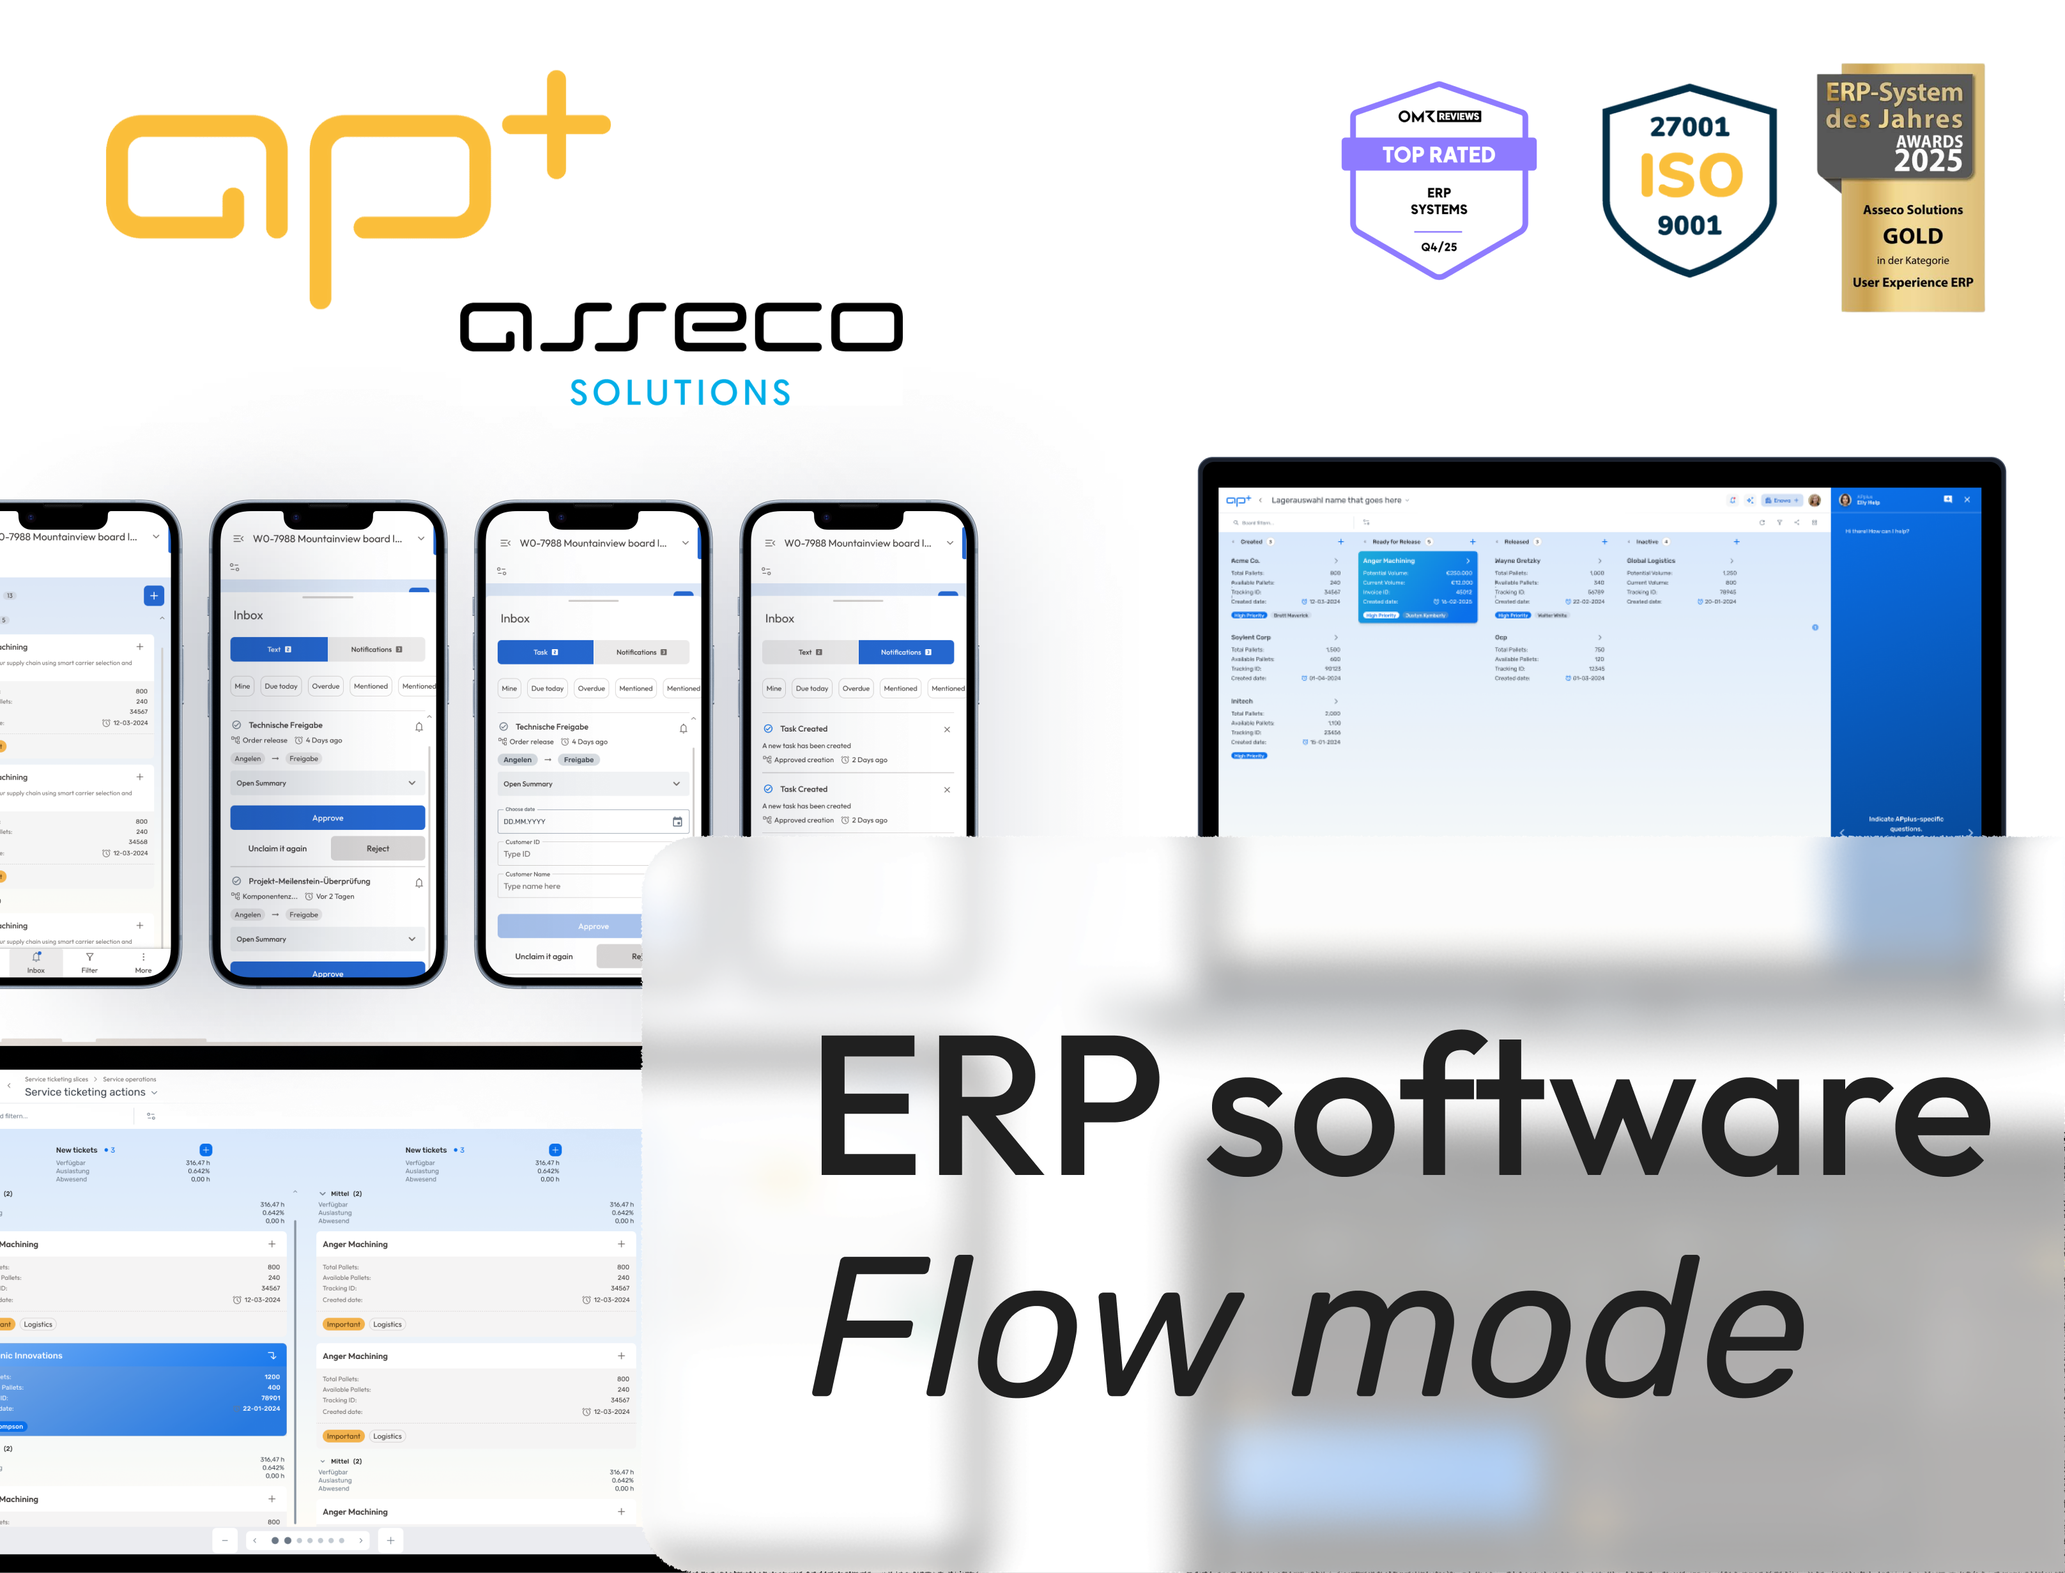
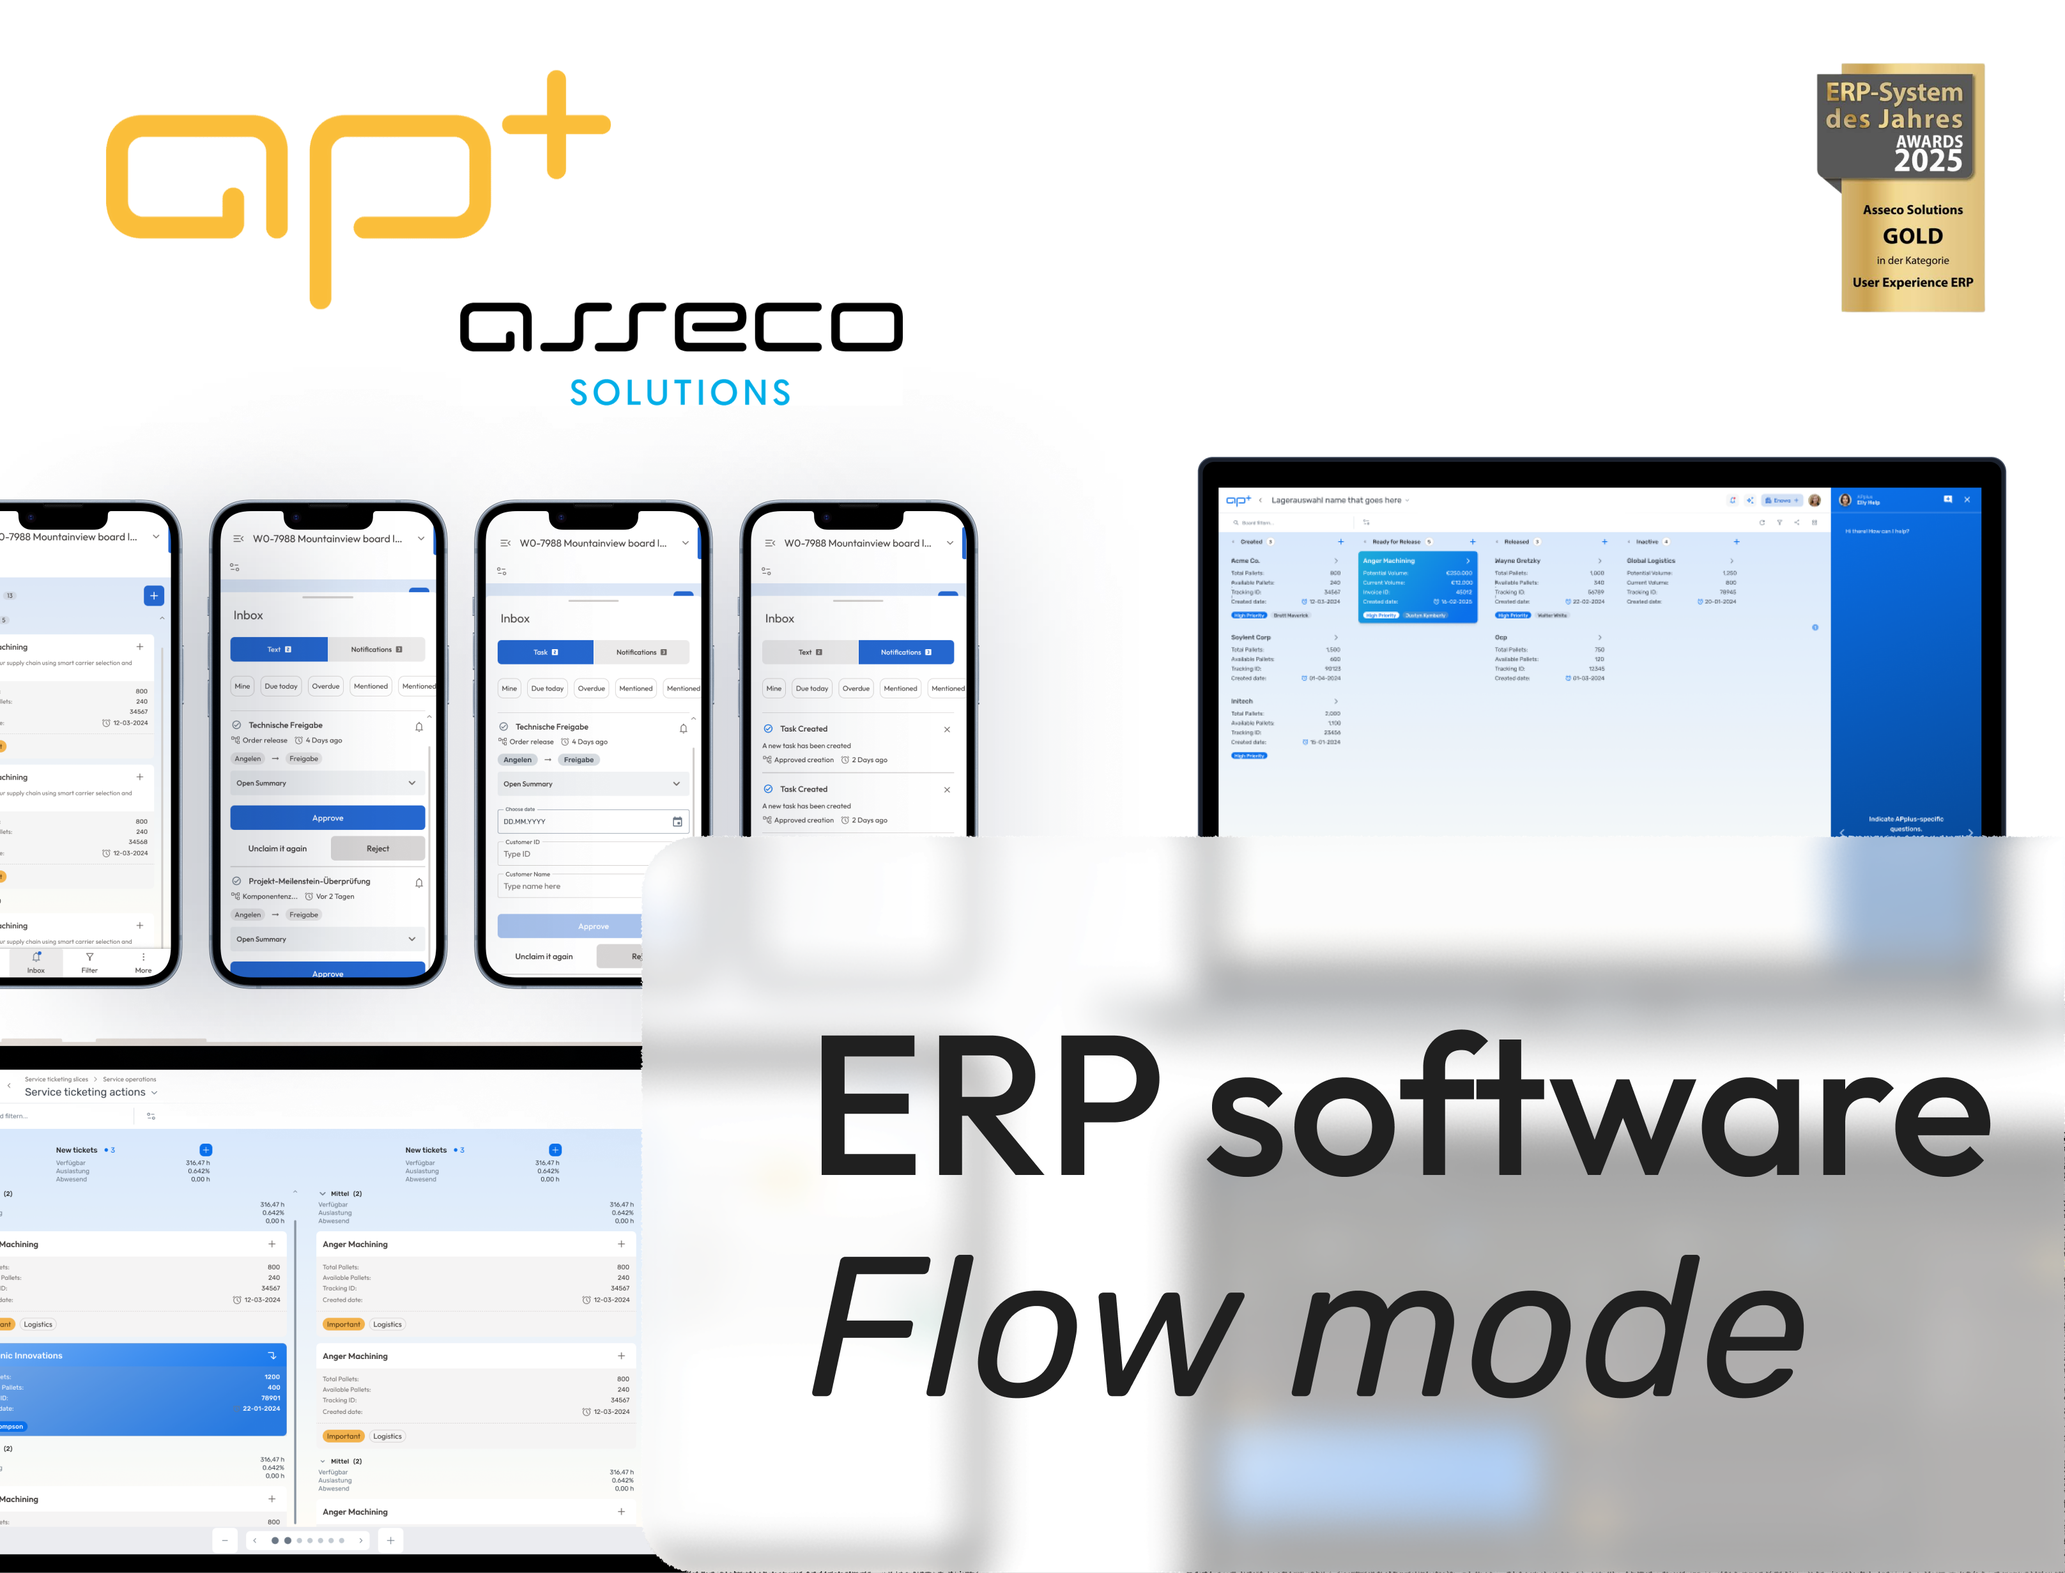
feat(work): Flow mode - case study sredniej glebokosci, tylko moja czesc pracy
Flow mode istnieje od APplus 8 (pazdziernik 2023); strona opisuje tylko
nowa nawigacje (z warsztatu Futures Thinking), uklad Page details,
migracje na FOX v2.5, nowe komponenty i wspolprace przy wdrozeniu, QA
i testach uzytecznosci. Bez niepotwierdzonych liczb.

Plansze 05, 06, 07 pociete na pojedyncze ekrany w screens/*.webp; lewy
laptop z 07 ("Document Management System") pominiety. Moodboard (03)
i przeglad flow w Figmie (04) usuniete. Z okladki usuniete plakietki
OMR i ISO. Linki w tekscie dostaja podkreslenie.

Changed region(s): [[0.625, 0.0309, 0.875, 0.1852]]

diff --git a/site/src/content/flow.ts b/site/src/content/flow.ts
@@ -1,104 +1,230 @@
 import type { CaseStudy } from "./types";
 
-/** Images from the Behance gallery, in gallery order. */
+/**
+ * Flow mode shipped in APplus 8, in October 2023, before I joined. This page
+ * describes only the part of it that is mine, as confirmed by me: the new
+ * navigation (from the Futures Thinking workshop), the Page details layout,
+ * the migration to FOX v2.5, the components that migration and the new
+ * navigation needed, and the work alongside implementation, QA and usability
+ * testing. There are no measured results, so the page states none.
+ *
+ * The screens are cut one by one from the Behance boards into screens/.
+ * Dropped on purpose: the moodboard (mostly competitors' products), the
+ * Figma overview of the mobile flows (unreadable at any size on a page), and
+ * the left laptop of the desktop board, whose header reads "Document
+ * Management System" and so is not Flow mode.
+ *
+ * Links to other walls are relative ("futures-thinking"), so they resolve
+ * under whatever base the site is deployed at.
+ */
+const S = "/work/applus-flow/screens";
+
 export const flow: CaseStudy = {
   slug: "applus-flow",
   title: "APplus Flow mode",
-  what: "A logistics module redesigned around status and ownership, desktop to mobile",
+  what: "A new navigation, page layout and FOX v2.5 components for an existing part of APplus ERP",
   lead:
-    "Flow mode is the logistics module inside APplus ERP. Shipments had been managed across several disconnected screens, so nobody could see one trusted status view.",
+    "Flow mode is the board view of APplus ERP: work items sit in columns by status and move from one column to the next. It shipped in APplus 8 in October 2023, before I joined. My part came later: a new navigation, a new Page details layout, the move to FOX v2.5 and the components that move needed.",
   status: { state: "live" },
   group: "product",
   cover: {
     kicker: "PRODUCT DESIGN · ENTERPRISE SOFTWARE",
     headline: ["Flow mode"],
-    subline: "logistics for APplus ERP",
-    stamp: "DESKTOP · TABLET · MOBILE · SHIPPED NATIVE",
+    subline: "navigation and page layout for APplus ERP",
+    stamp: "NAVIGATION · PAGE DETAILS · FOX v2.5 · DESKTOP TO MOBILE",
     credit: "Lead Product Designer · Asseco Solutions · 2026",
     shot: { src: "/work/applus-flow/00-cover.png" },
   },
   meta: [
     { label: "Role", value: "Lead Product Designer" },
     { label: "Company", value: "Asseco Solutions" },
-    { label: "Product", value: "APplus ERP — Flow mode, logistics" },
-    { label: "Platforms", value: "Desktop, tablet, mobile — shipped native" },
-    { label: "Recognition", value: "Contributed to ERP System of the Year 2025, UX category" },
+    { label: "Product", value: "APplus ERP — Flow mode, in the product since APplus 8 (October 2023)" },
+    {
+      label: "Design system",
+      value: "FOX, which I own; Flow mode's screens migrated to v2.5",
+      href: "https://design-system-v1.assecosolutions.com/?path=/docs/intro--docs",
+    },
+    { label: "Platforms", value: "Desktop, tablet, mobile" },
   ],
   chapters: [
     {
-      id: "challenge",
+      id: "in-short",
+      n: "00",
+      heading: "In short",
+      blocks: [
+        {
+          kind: "spec",
+          rows: [
+            {
+              key: "Problem",
+              value:
+                "Flow mode already worked, but it needed a navigation model, and the team could not agree whether people should enter through tasks or through modules.",
+            },
+            {
+              key: "My part",
+              value:
+                "The new navigation, the Page details layout, the migration of Flow mode's screens to FOX v2.5, and the new components that change needed. During the build I worked with the developers, helped with QA and ran usability tests with users.",
+            },
+            {
+              key: "Decision 1",
+              value:
+                "The header always says where you are: the path to the board, the board's name as a switcher, and the tenant you are working in.",
+            },
+            {
+              key: "Decision 2",
+              value:
+                "An item's details open beside the board, so the column it came from stays in view.",
+            },
+            {
+              key: "Decision 3",
+              value:
+                "Where the new navigation needed a pattern FOX did not have, I designed the component and added it to the system.",
+            },
+            {
+              key: "Evidence",
+              value:
+                "Usability tests with users during implementation. There are no measured before-and-after figures.",
+            },
+            { key: "Shipped", value: "Flow mode is live in APplus." },
+          ],
+        },
+      ],
+    },
+    {
+      id: "what-it-is",
       n: "01",
-      heading: "The challenge",
-      maxim:
-        "Several people, sometimes in different companies and different time zones, working on the same object. Status, ownership and the next action have to be obvious.",
+      heading: "What it is",
       blocks: [
         {
           kind: "passage",
           html:
-            "<p>Shipments were managed across multiple disconnected screens, which meant there was no single trusted status view — and no way to tell, at a glance, whose move it was next.</p>",
+            "<p>Flow mode is a way of working in APplus ERP built around boards. Each board is a set of columns by status, such as Created, Ready for release, Released and Inactive, and each card is one item with its key figures and tags. It has been part of APplus since version 8, released in October 2023. I did not create it.</p><p>What I changed is how people move around it and how an item is shown once they open it. I designed the new navigation and the new Page details layout, moved Flow mode's screens to version 2.5 of FOX, the design system I own, and designed the components that were missing for the new navigation.</p>",
+        },
+        {
+          kind: "shot",
+          width: "column",
+          src: `${S}/desktop-elly.webp`,
+          caption:
+            "A Flow mode board on desktop, with columns by status and the Elly help panel open on the right.",
         },
       ],
     },
     {
-      id: "discovery",
+      id: "navigation-origin",
       n: "02",
-      heading: "Discovery and research",
-      maxim:
-        "People think in terms of where a ticket sits right now and who owns it next — not in terms of which module happens to hold that data.",
+      heading: "Where the navigation came from",
       blocks: [
         {
           kind: "passage",
           html:
-            "<p>Observing internal operations staff at work. The module boundary was an implementation fact that had leaked into the interface, and the redesign started by refusing it.</p>",
+            "<p>The new navigation came out of a <a href=\"futures-thinking\">Futures Thinking workshop</a> I designed and facilitated. The team had two questions it could not settle by discussion: whether people should enter through tasks or through modules, and how far the interface should adapt to the person using it. The workshop turned those questions into an agreed scope and a navigation concept, and the design work started from that brief.</p><p>The workshop has its own page, with the method, the scenarios and what the room decided.</p>",
         },
-        { kind: "shot", width: "wall", src: "/work/applus-flow/03.png" },
       ],
     },
     {
-      id: "desktop",
+      id: "decisions",
       n: "03",
-      heading: "Desktop",
+      heading: "Decisions",
       standfirst:
-        "A ticketing board grouped by status, an integrated details panel, and an explicit tenant switcher for multi-organisation contexts.",
-      blocks: [
-        { kind: "shot", width: "wall", src: "/work/applus-flow/07.png" },
-      ],
-    },
-    {
-      id: "tablet",
-      n: "04",
-      heading: "Tablet",
-      standfirst:
-        "The same board structure at adapted density: larger touch targets, sliding panels, usable held or propped.",
-      blocks: [
-        { kind: "shot", width: "wall", src: "/work/applus-flow/06.png" },
-      ],
-    },
-    {
-      id: "mobile",
-      n: "05",
-      heading: "Mobile",
-      standfirst:
-        "An inbox that surfaces priority items, with inline editing of location, owner, floor, weight and timing.",
-      blocks: [
-        { kind: "shot", width: "wall", src: "/work/applus-flow/04.png" },
-        { kind: "shot", width: "wall", src: "/work/applus-flow/05.png" },
-      ],
-    },
-    {
-      id: "handoff",
-      n: "06",
-      heading: "What it changed",
+        "Three rules, with the screens that show them.",
       blocks: [
         {
           kind: "passage",
           html:
-            "<p>The module replaced fragmented processes with workflows that match how logistics teams actually think about a shipment. It contributed to ERP System of the Year 2025 in the UX category.</p>",
+            "<p><strong>The new navigation.</strong> The header always tells you where you are. It shows the path to the board, the board's name with a menu to switch to another board, and the tenant you are working in. Changing tenant is done in a dialog that says what it changes: “Your current context defines data access and system behaviour.” On a phone the same jobs move to a bottom bar with Search, Inbox, Filter and More.</p>",
+        },
+        {
+          kind: "duo",
+          items: [
+            {
+              src: `${S}/tablet-tenant.webp`,
+              caption:
+                "The tenant dialog on tablet, opened from the tenant in the header, with the board still visible behind it.",
+            },
+            {
+              src: `${S}/tablet-parameters.webp`,
+              caption:
+                "Board parameters (warehouse, floor, date) shown as chips under the header and edited in a popover.",
+            },
+          ],
         },
         {
           kind: "passage",
           html:
-            "<p>Built in Figma and Figma Make, with design-to-code handoff through Codex and Claude Code.</p>",
+            "<p><strong>The Page details layout.</strong> Opening an item does not take you away from the board. The details open in a panel beside it, with the item's name and status at the top, a “Move to” action, and the order details as a list of labels and values. The column you came from stays in view, so you can open the next item without finding your place again.</p>",
+        },
+        {
+          kind: "shot",
+          width: "wall",
+          src: `${S}/tablet-details.webp`,
+          caption:
+            "Page details on tablet: the selected item is highlighted in the board, and its details are in the panel on the right.",
+        },
+        {
+          kind: "passage",
+          html:
+            "<p><strong>New components from the gaps.</strong> The new navigation needed patterns that FOX did not have yet. I designed the missing components and added them to FOX, and Flow mode uses them from there. The phone screens below show some of the patterns the navigation relies on: a confirmation after changing tenant, an options sheet, and a notice after an action.</p>",
+        },
+      ],
+    },
+    {
+      id: "delivery",
+      n: "04",
+      heading: "Delivery",
+      blocks: [
+        {
+          kind: "passage",
+          html:
+            "<p>I stayed with the work while it was built. I worked with the developers during implementation, and I helped with quality testing. I also ran usability tests with users on the new navigation and layout.</p>",
+        },
+      ],
+    },
+    {
+      id: "screens",
+      n: "05",
+      heading: "Screens",
+      standfirst: "The same boards in the dark theme on tablet, and on a phone.",
+      blocks: [
+        {
+          kind: "shot",
+          width: "wall",
+          src: `${S}/tablet-dark.webp`,
+          caption:
+            "Page details on tablet in the dark theme, with two board columns and the item panel.",
+        },
+        {
+          kind: "set",
+          size: "phone",
+          items: [
+            {
+              src: `${S}/mobile-tenant.webp`,
+              caption: "A “Tenant changed” confirmation over the board, with the bottom bar below.",
+            },
+            {
+              src: `${S}/mobile-options.webp`,
+              caption: "The options sheet: Kanban or Focus view, Share, the tenant, Settings and Ask Elly.",
+            },
+            {
+              src: `${S}/mobile-bookmark.webp`,
+              caption: "A notice after an item is added to bookmarks.",
+            },
+            {
+              src: `${S}/mobile-theme.webp`,
+              caption: "The board with board parameters as chips under the header and a background image.",
+            },
+          ],
+        },
+      ],
+    },
+    {
+      id: "adds-up",
+      n: "06",
+      heading: "What it adds up to",
+      blocks: [
+        {
+          kind: "passage",
+          html:
+            "<p>I have no measured results for this work, so this page states none. What I can show is the navigation, the Page details layout and the FOX v2.5 components in the screens above, and Flow mode is live in APplus. APplus won Gold in the User Experience ERP category at <a href=\"erp-of-the-year\">ERP-System des Jahres 2025</a>.</p><p>Next I would like to measure how often people change board or tenant from the header, and whether the phone's bottom bar covers what they come to do.</p>",
         },
       ],
     },

diff --git a/site/src/styles/app.css b/site/src/styles/app.css
@@ -257,6 +257,9 @@ img { max-width: 100%; height: auto; }
 .passage p { margin: 0 0 var(--bh-space-3); }
 .passage p:last-child { margin-bottom: 0; }
 .passage strong { font-weight: 500; color: var(--bh-text-strong); }
+/* A link inside running text has to look like one; the global reset takes the underline away. */
+.passage a { text-decoration: underline; text-decoration-color: var(--bh-border); text-underline-offset: 0.2em; }
+.passage a:hover { color: var(--bh-text-strong); text-decoration-color: currentColor; }
 .points { margin: 0; padding-left: 1.1rem; }
 .points li { margin-bottom: var(--bh-space-2); }
 
